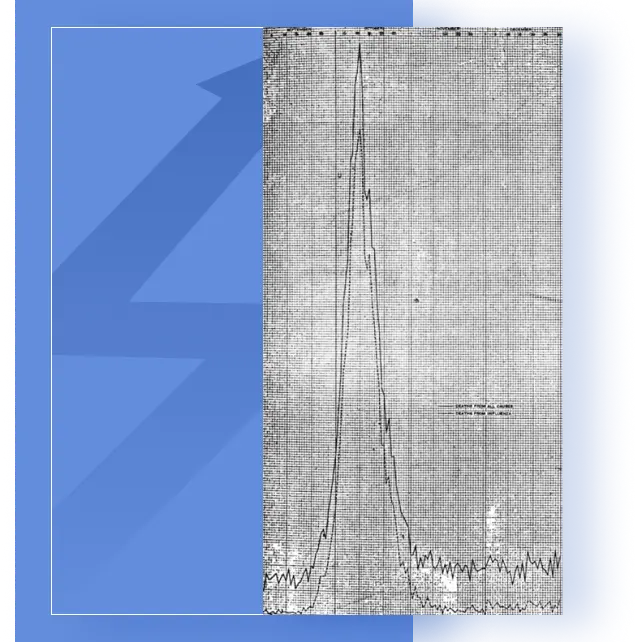
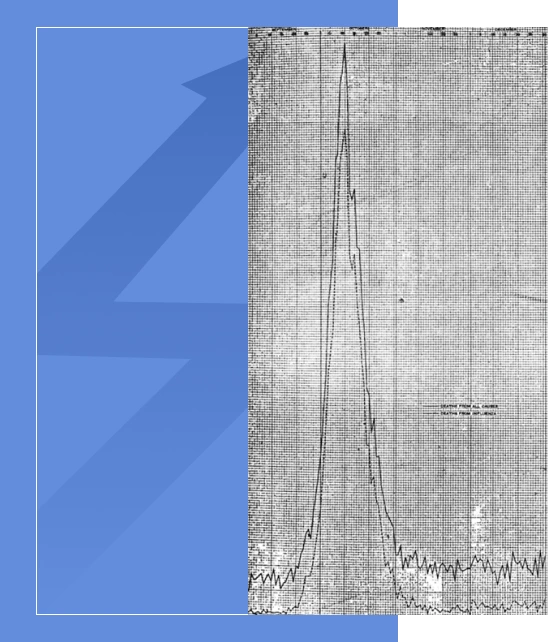
changes done on infectious-disease page

diff --git a/infectious-disease.html b/infectious-disease.html
@@ -129,33 +129,31 @@
         </section>
         <!--influenza sec starts-->
         <section
-          class="influenzaSec d-flex justify-content-center align-items-center align-items-center py-5 setColPadding"
+          class="influenzaSec col-lg-12 d-flex justify-content-center align-items-center align-items-center py-5 setColPadding"
         >
           <div class="container">
             <div class="row">
               <div
-                class="innerSection d-flex justify-content-center align-items-center setFlexCol p-0"
+                class="influenzeInnerSection col-lg-12 d-flex justify-content-center align-items-center setFlexCol p-0"
               >
                 <div class="dataImgSection col-lg-5 col-md-6 col-12">
                   <img
-                    class="image img-fluid w-100 rounded-4"
+                    class="image img-fluid w-100"
                     src="./assets/images/Influenza-sec-image.webp"
                     alt="Dinfluenza-sec-image"
                     loading="lazy"
                   />
                 </div>
-                <div class="content col-lg-7 col-md-6 col-12">
+                <div class="influenzeContent col-lg-7 col-md-6 col-12">
                   <h2 class="headingBlock contentWhite">
                     The Massive Mortality Due to Influenza
                   </h2>
-                  <div class="contentWidget">
-                    <p class="contentWhite">
-                      The massive mortality due to the influenza epidemic in
-                      October of 1918 in Kansas. This is representative of what
-                      happened in every state in the nation. Last revised:
-                      January 12, 2006
-                    </p>
-                  </div>
+                  <p class="contentWhite">
+                    The massive mortality due to the influenza epidemic in
+                    October of 1918 in Kansas. This is representative of what
+                    happened in every state in the nation. Last revised: January
+                    12, 2006
+                  </p>
                 </div>
               </div>
             </div>
@@ -169,39 +167,39 @@
           <div class="container">
             <div class="row">
               <div
-                class="documentInnerSec d-flex flex-column col-lg-4 justify-content-center align-items-center text-center setMainCol"
+                class="documentInnerSec d-flex flex-row col-lg-12 justify-content-center align-items-center text-center p-0"
               >
-                <a href="#" type="application/pdf" target="_blank"
-                  ><img
-                    src="./assets/images/it-01.webp"
-                    alt=""
-                    class="img-fluid"
-                /></a>
+                <div class="documentThumbnail01">
+                  <a href="#" type="application/pdf"
+                    ><img
+                      src="./assets/images/it-01.webp"
+                      alt=""
+                      class="img-fluid"
+                  /></a>
+                </div>
+                <div class="documentThumbnail01">
+                  <a href="#" type="application/pdf"
+                    ><img
+                      src="./assets/images/it-02.webp"
+                      alt=""
+                      class="img-fluid"
+                  /></a>
+                </div>
+                <div class="documentThumbnail01">
+                  <a href="#" type="application/pdf"
+                    ><img
+                      src="./assets/images/it-03.webp"
+                      alt=""
+                      class="img-fluid"
+                  /></a>
+                </div>
               </div>
-              <div
-                class="documentInnerSec d-flex flex-column col-lg-4 justify-content-center align-items-center text-center setMainCol"
-              >
-                <a href="#" type="application/pdf" target="_blank"
-                  ><img
-                    src="./assets/images/it-02.webp"
-                    alt=""
-                    class="img-fluid"
-                /></a>
-              </div>
-              <div
-                class="documentInnerSec d-flex flex-column col-lg-4 justify-content-center align-items-center text-center setMainCol"
-              >
-                <a href="#" type="application/pdf" target="_blank"
-                  ><img
-                    src="./assets/images/it-03.webp"
-                    alt=""
-                    class="img-fluid"
-                /></a>
-              </div>
-              <div
-                class="btnSec d-flex justify-content-center align-items-center"
-              >
-                <a class="btn" href="#">Covid Application</a>
+              <div class="documnetBtn">
+                <div
+                  class="btnSec d-flex justify-content-center align-items-center"
+                >
+                  <a class="btn" href="#">Covid Application</a>
+                </div>
               </div>
             </div>
           </div>
@@ -222,7 +220,7 @@
                     pandemic
                   </h3>
                   <div class="textWidget">
-                    <p class="contentWhite">
+                    <p class="contentWhite m-0">
                       Addressing the perennial issue of impending influenza
                       pandemics- be they seasonal H1 and H3, or Avian influenza
                       H5- necessitates quickly differentiating between typical
@@ -314,7 +312,7 @@
                 <div class="txtBlock col-lg-8 col-md-6 col-12">
                   <h3 class="contentWhite">Bird Flu deck</h3>
                   <div class="textWidget">
-                    <p class="contentWhite">
+                    <p class="contentWhite m-0">
                       National Emergency Management Summit symposium outlining
                       EPO’s innovative approach to pandemic management. from the
                       bedside evaluation of a patient in a medical facility to

diff --git a/assets/CSS/style.css b/assets/CSS/style.css
@@ -3260,7 +3260,24 @@ section.adminSec .txtBlock {
   background-size: cover;
   background-position: center;
 }
+.dataImgSection img,
+.influnzaReportInnerSec img {
+  filter: drop-shadow(35px 11px 50px #0f47af20);
+}
 /* Infectious Disease Page Css end*/
 .influnzaReportInnerSec {
   gap: 60px;
+}
+.documentInnerSec {
+  gap: 20px;
+}
+.documentInnerSec img {
+  filter: drop-shadow(24.66px 7.75px 35.33px #0f47af20);
+}
+.influenzaInnerSection {
+  overflow: hidden;
+}
+.influenzeContent {
+  width: 700px;
+  padding: 0 120px;
 }
